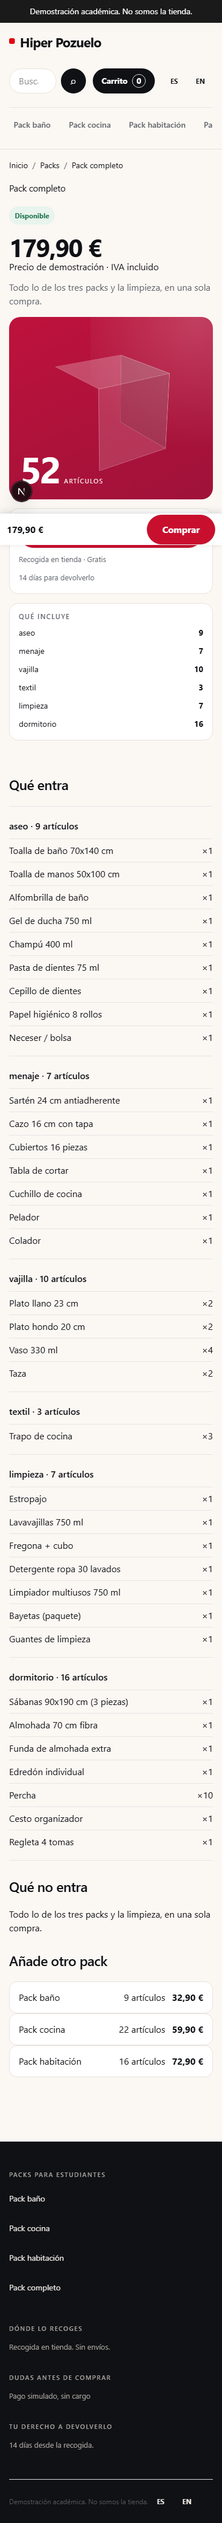
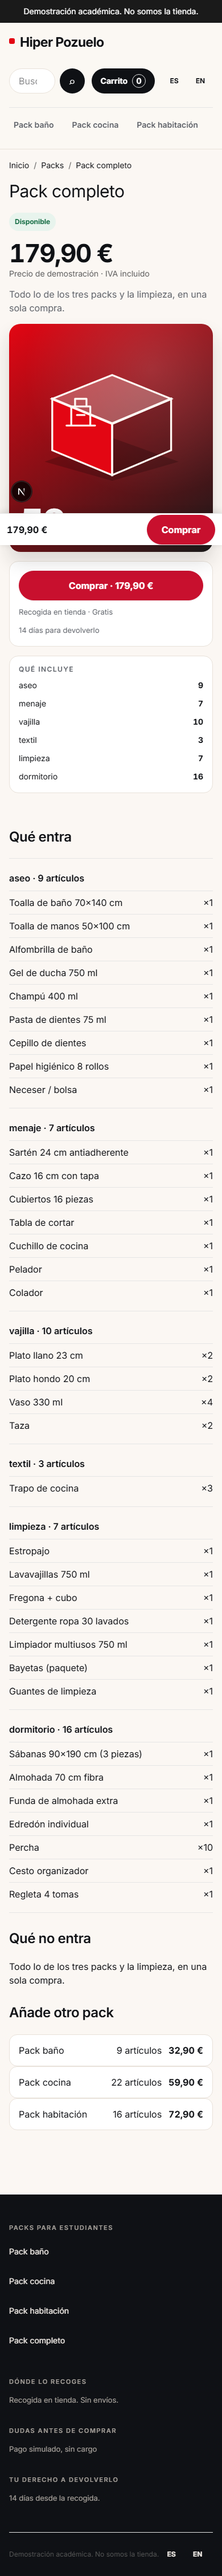
fix(home): remove the broken scroll narrative that left ~1100px of black void
The section was 240vh tall with a 100svh sticky panel: the panel unpinned after 810px
and the rest showed empty background. Now a normal section — items in three columns on
desktop, a scrollable box on mobile. Page height 6227px -> 4988px.

diff --git a/app/globals.css b/app/globals.css
@@ -221,3 +221,20 @@ h3{font-size:18px}
 .home-pack-card{transition:box-shadow 160ms cubic-bezier(.2,0,.3,1),transform 160ms cubic-bezier(.2,0,.3,1)}.cart-badge{transition:transform 160ms cubic-bezier(.2,0,.3,1)}.cart-badge:active{transform:scale(1.15)}
 @media(prefers-reduced-motion:no-preference){.home-pack-card:hover{transform:translateY(-4px);box-shadow:0 18px 32px #1A1A1A1A}.btn:active{transform:scale(.98)}.cart-badge{animation:badge-in 220ms ease-out}}
 @keyframes badge-in{from{transform:scale(.9)}to{transform:scale(1)}}
+/* La narrativa del pack tenía un sticky de 1249px en un viewport de 900: no se fijaba y dejaba
+   ~1100px de scroll muerto (el hueco negro). El panel se ancla y la lista scrollea dentro. */
+.fill-story{min-height:190vh}
+.fill-sticky{min-height:100svh;max-height:100svh;overflow:hidden}
+.fill-items{max-height:calc(100svh - 230px);overflow-y:auto;overscroll-behavior:contain;scrollbar-width:thin;padding-right:4px}
+@media(max-width:900px){.fill-items{max-height:calc(100svh - 320px)}}
+/* El truco de scroll no funcionaba: el contenedor (190vh) era más alto que el panel (100svh), así que
+   el panel se desanclaba a los 810px y quedaba una pantalla negra vacía. Se resuelve como sección
+   normal: lista en tres columnas en escritorio y caja con scroll propio en móvil. */
+.fill-story{min-height:0;padding-block:var(--space-8)}
+.fill-sticky{position:static;min-height:0;max-height:none;overflow:visible;padding-block:0}
+.fill-items{max-height:none;overflow:visible;padding-right:0}
+@media(min-width:1100px){.fill-items{grid-template-columns:repeat(3,1fr)}}
+@media(min-width:700px) and (max-width:1099px){.fill-items{grid-template-columns:repeat(2,1fr)}}
+@media(max-width:699px){
+  .fill-items{max-height:56svh;overflow-y:auto;border:1px solid #4a4a4a;border-radius:14px;padding:10px;overscroll-behavior:contain}
+}
